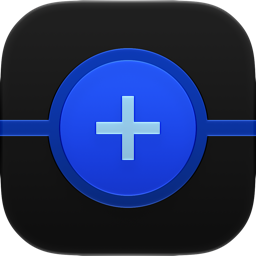
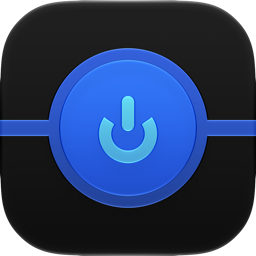
EffectDeck へ改名。版は出した日にする
本家の作者から「名前はMIT以上の契約が要るので別名で」と返事があった。
アプリ名から EffeTune を外す。上流を指す言及（NOTICE のクレジット、
説明文の「EffeTune の DSP を使っている」）はそのまま残す。

帰還ループの判定が "EffeTune" の直書きだった 3 か所を ET_NAME_STEM へ。
名前を替えると出力先が自分へ戻っていても気づけなくなる。

アイコンの真ん中を電源記号にした。

版は上流に追従するのをやめて、出した日（2026.09.17）にする。
同じ日に 2 回は出せない（区切りは 3 つまでで、番号は使い回せない）。

Claude-Session: https://claude.ai/code/session_013Pa89izEtbUA9BCQLoCqtp

diff --git a/Sources/EffeTuneLive/Audio/AudioIO.swift b/Sources/EffeTuneLive/Audio/AudioIO.swift
@@ -4,7 +4,7 @@
 //  なぜこのアプリが鳴らす役なのか（実機のログで確定）:
 //    Media Device Extension を同梱したアプリは AVAudioSession を開けない（'!pla'）。
 //    拡張プロセス自身も開けない（'msrv'）。
-//    だから拡張は EffeTune Live Bridge が運び、音はこのアプリが出す。
+//    だから拡張は EffectDeck Bridge が運び、音はこのアプリが出す。
 //
 //  開始/停止のボタンは持たない。拡張が繋がったら自分で鳴らし始め、切れたら畳む。
 //  鎖を切りたいときは Effect Pipeline の ON を切る（素通しになる）。
@@ -262,7 +262,7 @@ final class AudioIO: ObservableObject {
     ///
     /// **訂正。** ここには「繋がらないからシステムが 1.5 秒で諦めて Unable to Connect に
     /// なる」と書いてあったが、違う。本体が居ない区間——04:29:47.817036 の
-    /// destroy_session(EffeTune Live(530)) から 04:30:25.812872 の create_session まで
+    /// destroy_session(EffectDeck(530)) から 04:30:25.812872 の create_session まで
     /// ——でも endpoint は同じように切られている:
     ///   et.log:51269 04:29:52.648007 / et.log:56349 04:29:57.736604
     ///     FigRoutingManagerDeactivateEndpointFromPickedContexts ... a different endpoint got picked
@@ -333,7 +333,7 @@ final class AudioIO: ObservableObject {
             // 起きるので、いちばん効かせたい瞬間に「システムの選択に従う」と
             // 宣言していることになる。
             let onVirtualNow = session.currentRoute.outputs.contains {
-                $0.portName.localizedCaseInsensitiveContains("EffeTune")
+                $0.portName.localizedCaseInsensitiveContains(ET_NAME_STEM)
             }
             if !onVirtualNow {
                 try session.overrideOutputAudioPort(.none)
@@ -678,7 +678,7 @@ final class AudioIO: ObservableObject {
     private func escapeVirtualDevice(_ session: AVAudioSession) {
         let outs = session.currentRoute.outputs
         let onVirtual = outs.contains {
-            $0.portName.localizedCaseInsensitiveContains("EffeTune")
+            $0.portName.localizedCaseInsensitiveContains(ET_NAME_STEM)
         }
         let onSpeaker = outs.contains { $0.portType == .builtInSpeaker }
         let now = ProcessInfo.processInfo.systemUptime
@@ -762,12 +762,12 @@ final class AudioIO: ObservableObject {
         // 名前で見る。ドライバは kAudioDeviceTransportTypeRemoteStreaming で名乗るので
         // portType は .airPlay になるが、本物の AirPlay スピーカーも同じ型で出る。
         // 型だけで判ると、実際には鳴っている相手に「戻っている」と警告してしまう。
-        // ドライバが出す名前は "EffeTune Live" 固定（EffeTuneDriver.m の
+        // ドライバが出す名前は "EffectDeck" 固定（EffeTuneDriver.m の
         // kAudioObjectPropertyName）。**前方一致ではなく包含で見る。**
         // ルートピッカーに出る名前（MediaOutputDevice.displayName）は
-        // "EffeTune" で、こちらとは別系統。どちらも "EffeTune" を含む。
+        // どちらも ET_NAME_STEM を含む。別系統だが名前は同じ字にしてある。
         let nowLoopback = outs.contains {
-            $0.portName.localizedCaseInsensitiveContains("EffeTune")
+            $0.portName.localizedCaseInsensitiveContains(ET_NAME_STEM)
         }
         if loopback != nowLoopback { loopback = nowLoopback }
 

diff --git a/Sources/EffeTuneLive/Audio/NowPlaying.swift b/Sources/EffeTuneLive/Audio/NowPlaying.swift
@@ -5,7 +5,7 @@
 //  止め方も分からなくなる。だから出す。
 //
 //  ただし曲名やアートワークは元のアプリのもので、こちらは持っていない。
-//  出せるのは「EffeTune Live が処理している」ことと、鎖の入切だけ。
+//  出せるのは「EffectDeck が処理している」ことと、鎖の入切だけ。
 //  曲の情報を偽って出すと、いま流れている曲だと誤解されるので出さない。
 
 import Foundation
@@ -50,7 +50,7 @@ enum NowPlaying {
     /// タスクキル後に選び直す。どちらも「仮想デバイスが選ばれている最中に
     /// こちらがセッションを開く」並びになる。
     ///
-    /// **失うものは無い。** 名乗っていた頃もロック画面に EffeTune Live の
+    /// **失うものは無い。** 名乗っていた頃もロック画面に EffectDeck の
     /// 再生/一時停止は出ていなかった（2026-09-16 ユーザー確認）。
     /// 鳴らしているアプリが Now Playing を握っているので、こちらは出番が無い。
     /// そもそも鎖の入切は、コントロールセンターで出力先を iPhone Speaker と
@@ -87,7 +87,7 @@ enum NowPlaying {
     static func claimBeforeSession() {
         guard mode == .first else { return }
         var info: [String: Any] = [:]
-        info[MPMediaItemPropertyTitle] = "EffeTune Live"
+        info[MPMediaItemPropertyTitle] = "EffectDeck"
         info[MPNowPlayingInfoPropertyIsLiveStream] = true
         info[MPNowPlayingInfoPropertyPlaybackRate] = 1.0
         MPNowPlayingInfoCenter.default().nowPlayingInfo = info
@@ -139,7 +139,7 @@ enum NowPlaying {
         guard running else { stop(); return }
 
         var info: [String: Any] = [:]
-        info[MPMediaItemPropertyTitle] = "EffeTune Live"
+        info[MPMediaItemPropertyTitle] = "EffectDeck"
         info[MPMediaItemPropertyArtist] = active
             ? (count == 1 ? "1 effect" : "\(count) effects")
             : "Bypassed"

diff --git a/Sources/EffeTuneLive/Views/SettingsModel.swift b/Sources/EffeTuneLive/Views/SettingsModel.swift
@@ -134,7 +134,7 @@ enum ETRunState {
         case .interrupted:
             return "A call or another app took the audio device. Play something again to restart."
         case .waiting:
-            return "Open Control Center, press and hold the audio card, then choose EffeTune "
+            return "Open Control Center, press and hold the audio card, then choose EffectDeck "
                  + "as the output for the app you are playing."
         case .idle:
             return "The input has been silent, so the effects are paused. They start again "
@@ -286,7 +286,7 @@ struct ETIssue: Identifiable {
                 id: "loopback",
                 tone: .warning,
                 systemImage: "arrow.triangle.2.circlepath",
-                title: "Output is set to EffeTune Live",
+                title: "Output is set to EffectDeck",
                 detail: "The processed sound is going back into this app instead of to a "
                       + "speaker, so you hear nothing and the level keeps rising. Open "
                       + "Control Center, press and hold the audio card, and pick a real "
@@ -356,7 +356,7 @@ struct ETDiagnostics {
     let device: String
 
     var text: String {
-        var out = ["EffeTune Live \(ETAppInfo.display) diagnostics", device, ""]
+        var out = ["EffectDeck \(ETAppInfo.display) diagnostics", device, ""]
         out.append("Settings")
         out += settings.map { "  \($0.label): \($0.value)" }
         out.append("")

diff --git a/Sources/EffeTuneLive/Views/PipelineView.swift b/Sources/EffeTuneLive/Views/PipelineView.swift
@@ -555,14 +555,14 @@ private struct ConnectBanner: View {
                     // コンテキストへ参加して、帰還ループに引きずられる）。
                     // 出す先を選べるのはコントロールセンターだけ。
                     //
-                    // **名乗っている名前は「EffeTune」。**「EffeTune Live」ではない
+                    // **名乗っている名前は ET_ROUTE_NAME（EffectDeck）。**アプリ名と同じ字にしてある
                     // （Sources/Extension の displayName）。一覧に出る字と
                     // 揃えないと、どれを押せばよいのか分からない。
                     //
                     // 鳴らしてから選ぶ順も落とさない。止まっていると系が
                     // 1.5 秒で経路を戻す（README の If it says Unable to Connect）。
                     Text("""
-                         Play something in another app first, then pick EffeTune as \
+                         Play something in another app first, then pick EffectDeck as \
                          the output in Control Center.
                          """)
                         .font(.system(size: 12))

diff --git a/Sources/Extension/EffeTuneLiveExtension.swift b/Sources/Extension/EffeTuneLiveExtension.swift
@@ -1,4 +1,4 @@
-//  EffeTune Live — Media Device Extension (iOS 27+)
+//  EffectDeck — Media Device Extension (iOS 27+)
 //
 //  ルートピッカーに EffeTune を1台出し、選ばれたらシステム音声のサンプルを受け取る。
 //  API は Xcode 27 の MediaDevice.swiftinterface から起こしたもので、推測は含まない。
@@ -127,7 +127,7 @@ final class EffeTuneLiveExtension: MediaDeviceExtension, RealtimeSampleHandling 
     ///
     /// 127.0.0.1:47101 なら実在していて、拡張から実際に繋がっている:
     ///   et.log:9681 EffeTuneLiveExtension[564] ET connect 成功 port=47101（7 回）
-    ///   et.log:65193 EffeTune Live[601] ET receiver 待ち受け開始 port=47101
+    ///   et.log:65193 EffectDeck[601] ET receiver 待ち受け開始 port=47101
     ///   Sources/Shared/LocalLink.m:285-300（本体側の bind/listen）
     /// 音はこの口を通らない（AudioServerPlugIn 経由で来る）。名乗るためだけに使う。
     ///

diff --git a/Sources/EffeTuneLive/Views/SettingsView.swift b/Sources/EffeTuneLive/Views/SettingsView.swift
@@ -125,7 +125,7 @@ struct SettingsView: View {
         Section {
             Toggle("Keep the screen on", isOn: $prefs.keepScreenAwake)
         } footer: {
-            Text("The screen will not lock while EffeTune Live is in front.")
+            Text("The screen will not lock while EffectDeck is in front.")
         }
     }
 
@@ -195,7 +195,7 @@ private struct StatusSection: View {
         } footer: {
             Text("""
                  Audio from the player you are listening to arrives here at 48 kHz \
-                 through the EffeTune output in Control Center.
+                 through the EffectDeck output in Control Center.
                  """)
         }
     }

diff --git a/Sources/EffeTuneLive/Audio/RouteEscape.swift b/Sources/EffeTuneLive/Audio/RouteEscape.swift
@@ -52,7 +52,7 @@ struct ETRouteEscape {
     var gaveUp: Bool { attempts >= Self.maxAttempts }
 
     /// - Parameters:
-    ///   - onVirtual: 出力先に "EffeTune" を含む名前の口が居るか。
+    ///   - onVirtual: 出力先に ET_NAME_STEM を含む名前の口が居るか。
     ///   - onSpeaker: 出力先に内蔵スピーカーが居るか。
     ///   - now: `ProcessInfo.processInfo.systemUptime`。
     /// - Returns: 打つべき手。何もしないときは nil。

diff --git a/Sources/EffeTuneLive/EffeTuneLiveApp.swift b/Sources/EffeTuneLive/EffeTuneLiveApp.swift
@@ -1,5 +1,5 @@
 //  EffeTuneLiveApp.swift
-//  EffeTune Live — 他のアプリの音を受けて、EffeTune のエフェクトを通して出し直す。
+//  EffectDeck — 他のアプリの音を受けて、EffeTune のエフェクトを通して出し直す。
 
 import SwiftUI
 

diff --git a/Tools/gen_version.py b/Tools/gen_version.py
@@ -1,21 +1,27 @@
 #!/usr/bin/env python3
-"""上流 EffeTune の版に追従する。ただし**末尾はこちらの番号**。
+"""同梱している EffeTune の版を Swift から読めるようにする。
 
-このアプリは EffeTune の dsp/ をそのまま積んでいるので、
-効果の中身は上流の版で決まる。表示する版もそこに合わせる。
+**アプリの版は上流に追従しない。**以前は上流の `major.minor` に合わせていたが、
+やめた。理由は 2 つ。
 
-**合わせるのは上 2 つ（major.minor）だけ。** 末尾（patch）はこちらの配布の回数。
-上流が動いていないあいだもアプリ側の直しは出るし、**App Store Connect は
-同じ版を二度公証に出せない**（版が READY_FOR_DISTRIBUTION になると、
-ビルドの差し替えが 409 ENTITY_ERROR.RELATIONSHIP.INVALID.INVALID_STATE で弾かれる。
-2026-09-17 に実測）。上流の版をそのまま名乗ると、上流が動くまで出し直せない。
+  1. 上流の名前を冠さなくなったので、番号だけ揃える意味が無い
+  2. App Store Connect は同じ版を二度出せない。上流が動かないあいだ、
+     こちらの直しを出すたびに末尾を足していく形になっていた
 
-  上流 2.9.0、こちら 2.9.0 → 2.9.1 → 2.9.2 …
-  上流が 2.10.0 になったら 2.10.0 から数え直す
+いまは**出した日**を版にする（`2026.09.17`）。`project.yml` の
+`MARKETING_VERSION` を手で書くか、`--today` で今日の日付にする。
+
+  python3 Tools/gen_version.py            UpstreamVersion.swift を書くだけ
+  python3 Tools/gen_version.py --today    版も今日の日付にする
+
+**同じ日に 2 回は出せない。**版の番号は使い回せず、区切りは 3 つまでなので
+4 つ目を足すこともできない。同じ日に出し直すなら、ビルド番号だけ上げる
+（版を替えずに差し替えられるのは、まだ審査へ出していないあいだだけ）。
 
 ビルド番号（CURRENT_PROJECT_VERSION）はこちらの都合なので触らない。
 「どの EffeTune を積んだか」は UpstreamVersion.swift に別の事実として残る。
 """
+import datetime
 import json
 import pathlib
 import re
@@ -24,9 +30,9 @@ import sys
 ROOT = pathlib.Path(__file__).resolve().parent.parent
 SRC = ROOT / "Vendor" / "effetune" / "package.json"
 DST = ROOT / "project.yml"
-# 上流の版を Swift からも読めるようにする。MARKETING_VERSION と同じ値になるが、
-# あちらは「このアプリの版」でこちらは「どの EffeTune の dsp を積んだか」。
-# 意味が違うので別の事実として持つ。
+# 上流の版を Swift からも読めるようにする。
+# **アプリの版とは別の事実。**あちらは「このアプリを出した日」で、
+# こちらは「どの EffeTune の dsp を積んだか」。
 SWIFT = ROOT / "Sources" / "EffeTuneLive" / "Generated" / "UpstreamVersion.swift"
 
 
@@ -44,31 +50,32 @@ def main() -> int:
     if not found:
         print("!! MARKETING_VERSION が見つからない", file=sys.stderr)
         return 1
+    app = found.group(1)
 
-    # 上 2 つが同じなら、末尾はこちらのものなので触らない。
-    def head(v: str) -> str:
-        return ".".join(v.split(".")[:2])
+    if "--today" in sys.argv:
+        today = datetime.date.today().strftime("%Y.%m.%d")
+        if today != app:
+            s = s[:found.start(1)] + today + s[found.end(1):]
+            DST.write_text(s, encoding="utf-8", newline="\n")
+            print("版を %s から %s へ" % (app, today))
+            app = today
+        else:
+            print("版は既に %s" % app)
 
-    current = found.group(1)
-    app = current if head(current) == head(version) else head(version) + ".0"
-    if app != current:
-        s = s[:found.start(1)] + app + s[found.end(1):]
-        DST.write_text(s, encoding="utf-8", newline="\n")
     header = [
         "//  UpstreamVersion.swift",
         "//  Tools/gen_version.py が作る。手で直さないこと。",
         "//",
         "//  同梱している EffeTune の版（Vendor/effetune/package.json）。",
-        "//  アプリの版は同じ数字に揃えてあるが、意味が違う。",
-        "//  あちらは「このアプリの何度目の配布か」、",
-        "//  こちらは「どの EffeTune の dsp を積んだか」。",
+        "//  **アプリの版とは別の事実。**あちらは出した日で、",
+        "//  こちらは積んだ EffeTune の dsp の版。",
         "",
         'let ETUpstreamVersion = "%s"' % version,
         "",
     ]
     SWIFT.write_text(chr(10).join(header), encoding="utf-8", newline=chr(10))
 
-    # README のバッジも同じ版にする。手で書くと古くなる。
+    # README のバッジは上流の版を出す。手で書くと古くなる。
     readme = ROOT / "README.md"
     if readme.is_file():
         text = readme.read_text(encoding="utf-8")
@@ -76,7 +83,7 @@ def main() -> int:
                               r"\g<1>%s\g<2>" % version.replace("-", "--"),
                               text, count=1)
         if hits == 1 and fixed != text:
-            readme.write_text(fixed, encoding="utf-8", newline=chr(10))
+            readme.write_text(fixed, encoding="utf-8", newline="\n")
             print("README のバッジを直した")
     print("version: app %s / upstream %s" % (app, version))
     return 0

diff --git a/Sources/Shared/ETNames.h b/Sources/Shared/ETNames.h
@@ -10,7 +10,8 @@
 //                    （EffeTuneDriver.m の kAudioObjectPropertyName）。
 //                    AVAudioSession の出力先の名前として出る。
 //
-//  この 2 つは別々の仕組みが持っていて、画面でも別の所に出る。
+//  **2 つとも同じ字にしてある。**別々の仕組みが持っていて画面でも別の所に出るが、
+//  違う字を当てると「どちらを選べばいいのか」という問いが使う人に生まれる。
 //  一覧の行をタップすると 2 行になるが、**下の行は OS が上の行を写している
 //  だけで、こちらから変える口は無い**（4 つ測って全部外れた。
 //  docs/connect-log.md の「コントロールセンターの 2 行目は選べない」）。
@@ -23,13 +24,13 @@
 #define ETNames_h
 
 /// 2 つの名前に共通して入っている部分。帰還ループの判定はこれで見る。
-#define ET_NAME_STEM "EffeTune"
+#define ET_NAME_STEM "EffectDeck"
 
 /// ルートピッカーに出る字。
-#define ET_ROUTE_NAME "EffeTune"
+#define ET_ROUTE_NAME "EffectDeck"
 
 /// 仮想デバイス（ドライバ）の名前。出力先の名前として出る。
-#define ET_DRIVER_NAME "EffeTune Live"
+#define ET_DRIVER_NAME "EffectDeck"
 
 /// 作った所。
 #define ET_MANUFACTURER "nemut.ai"

diff --git a/Tools/asc.py b/Tools/asc.py
@@ -17,6 +17,7 @@
   python3 asc.py get <path>                   任意の GET（path は /v1/... から）
   python3 asc.py patch <path> <body.json>     任意の PATCH（本体はファイル）
   python3 asc.py post <path> <body.json>      任意の POST
+  python3 asc.py delete <path> [body.json]    任意の DELETE
 """
 import json
 import subprocess
@@ -263,6 +264,15 @@ def main() -> int:
 
     if cmd == "get":
         print(json.dumps(call("GET", sys.argv[2]), indent=2, ensure_ascii=False))
+        return 0
+
+    if cmd == "delete":
+        # 関係を外す DELETE は本体が要る（betaGroups の builds など）。
+        body = None
+        if len(sys.argv) > 3:
+            body = json.loads(Path(sys.argv[3]).read_text(encoding="utf-8"))
+        d = call("DELETE", sys.argv[2], body)
+        print(json.dumps(d, indent=2, ensure_ascii=False) if d else "ok")
         return 0
 
     if cmd in ("patch", "post"):

diff --git a/Sources/Extension/EffeTuneDriver.m b/Sources/Extension/EffeTuneDriver.m
@@ -451,7 +451,7 @@ static OSStatus ET_GetPropertyData(AudioServerPlugInDriverRef d, AudioObjectID o
                 case kAudioObjectPropertyBaseClass: PUT(AudioClassID, kAudioObjectClassID);
                 case kAudioObjectPropertyClass:     PUT(AudioClassID, kAudioDeviceClassID);
                 case kAudioObjectPropertyOwner:     PUT(AudioObjectID, kObjectID_PlugIn);
-                // 仮想デバイスの名前。**アプリと同じ「EffeTune Live」を名乗る。**
+                // 仮想デバイスの名前。**アプリと同じ「EffectDeck」を名乗る。**
                 // 出るのは出力先を出す所（アプリの Settings の Device、音量の
                 // 表示など）。MediaOutputDevice.displayName（ルートピッカーに
                 // 出る「EffeTune」）とは別系統で、コントロールセンターの行は
